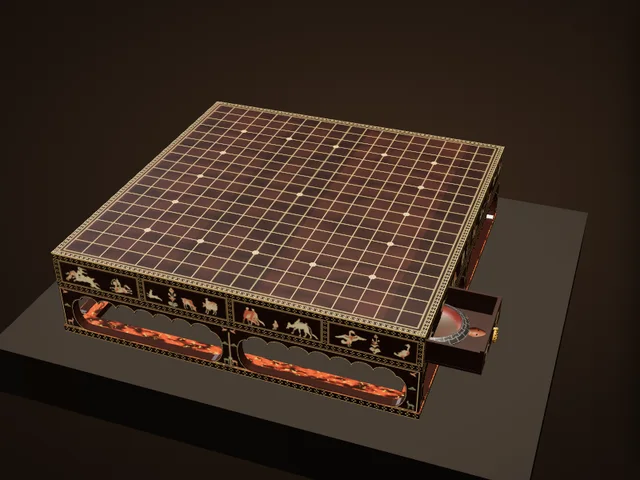
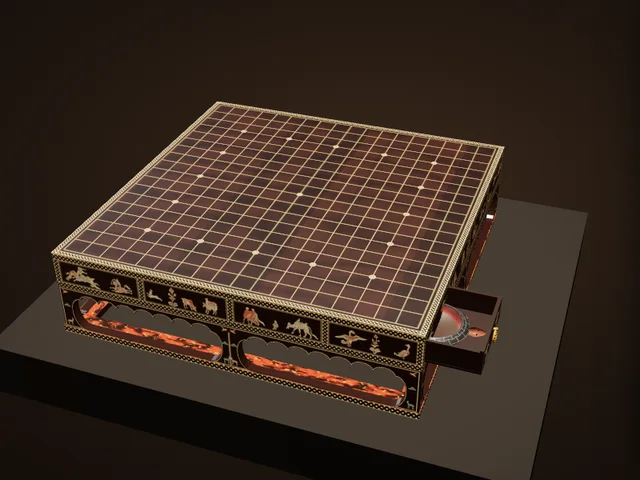
博物館：碁盤の図柄に線彫りを追加、菱形の帯を密に
Claude-Session: https://claude.ai/code/session_01EiWRAZTxRF5M5nk5vdR2jJ

diff --git a/atlas/museum/ex/shosoin.js b/atlas/museum/ex/shosoin.js
@@ -13,7 +13,7 @@
   // 4 panels each, 512 × 150): alpha = the ivory figure, green / blue = where it is dyed green / red. Outlines and dye only.
   const HERE = (document.currentScript && document.currentScript.src) || location.href; let FIG = null;
   (window.AtlasEx = window.AtlasEx || {}).shosoin = {
-    ready: () => new Promise(res => { const im = new Image(); im.onload = () => { FIG = im; res(); }; im.onerror = () => res(); im.src = new URL('../../../images/atlas/ex/shosoin-figures.webp', HERE).href; setTimeout(res, 8000); }),
+    ready: () => new Promise(res => { const im = new Image(); im.onload = () => { FIG = im; res(); }; im.onerror = () => res(); im.src = new URL('../../../images/atlas/ex/shosoin-figures.webp?v=2', HERE).href; setTimeout(res, 8000); }),
     build(TT, X, K) {
       const G = new TT.Group();
       const S = 48.9, H = 12.7, RAIL = 1.0, BASE = 7.4,   // (measured on the Shōsōin's oblique photograph: body 5.3, openings 5.4, floor frame 1.0)
@@ -90,7 +90,7 @@
       const chain = (g, x0, y0, len, wd, vert) => { g.save(); g.translate(x0, y0); if (vert) g.rotate(Math.PI / 2);
         g.fillStyle = 'rgba(14,6,4,.35)'; g.fillRect(0, 0, len, wd); g.fillStyle = '#d8bb7c'; g.fillRect(0, 0, len, wd * .07); g.fillRect(0, wd * .93, len, wd * .07);
         // each motif is a lozenge of four small ivory squares (as on the photographed sides), a dark dot in the middle
-        const n = Math.max(1, Math.round(len / (wd * .95))), q = wd * .13;
+        const n = Math.max(1, Math.round(len / (wd * .66))), q = wd * .2;   /* (close-set: the white lozenges nearly touch — detail photographs) */
         for (let i = 0; i < n; i++) { const cx = (i + .5) * len / n, cy = wd / 2; g.save(); g.translate(cx, cy); g.rotate(Math.PI / 4); g.fillStyle = '#e4d2a2';
           [[-1, -1], [1, -1], [-1, 1], [1, 1]].forEach(([u, v]) => g.fillRect(u * q * 1.15 - q / 2, v * q * 1.15 - q / 2, q, q)); g.restore(); }
         g.restore(); };
@@ -128,7 +128,7 @@
       const PAL = [C.iv, C.red, C.grn, '#d8b878'];
       // the figures in ivory with their dyes, and a dark outline round each (the joint of the inlay)
       let figC = null; if (FIG) { figC = document.createElement('canvas'); figC.width = FIG.width; figC.height = FIG.height; const q = figC.getContext('2d'); q.drawImage(FIG, 0, 0); const im = q.getImageData(0, 0, figC.width, figC.height), d = im.data;
-        for (let i = 0; i < d.length; i += 4) { const gr = Math.min(1, d[i + 1] / 255 * 1.5), rd = Math.min(1, d[i + 2] / 255 * 1.4); let c = [222, 206, 168]; c = c.map((v, k) => v + ([96, 140, 108][k] - v) * gr); c = c.map((v, k) => v + ([206, 112, 78][k] - v) * rd); d[i] = c[0]; d[i + 1] = c[1]; d[i + 2] = c[2]; } q.putImageData(im, 0, 0); }
+        for (let i = 0; i < d.length; i += 4) { const gr = Math.min(1, d[i + 1] / 255 * 1.5), rd = Math.min(1, d[i + 2] / 255 * 1.4); let c = [222, 206, 168]; c = c.map((v, k) => v + ([96, 140, 108][k] - v) * gr); c = c.map((v, k) => v + ([206, 112, 78][k] - v) * rd); { const ln = d[i] / 255 * .85; c = c.map((v, k) => v + ([84, 46, 28][k] - v) * ln); }   /* the engraved lines, filled dark */ d[i] = c[0]; d[i + 1] = c[1]; d[i + 2] = c[2]; } q.putImageData(im, 0, 0); }
       const panelFig = (g, row, col, x, y, w2, h2) => { g.save(); g.shadowColor = 'rgba(14,6,3,.9)'; g.shadowBlur = 2.5; g.drawImage(figC, col * 512, row * 150, 512, 150, x, y, w2, h2); g.restore(); };
       const sideTex = (seed, drawerAt) => K.tex(2048, Math.round(2048 * (BODY - TOP) / S), (g, w, h) => {
         g.drawImage(shT.image, 0, 0, w, h); const s = w / S, cb = s * .85;

diff --git a/atlas/museum.js b/atlas/museum.js
@@ -32,7 +32,7 @@
   const ROOMS = [
     { id: 'map', ready: () => !!window.AtlasMap, render: (el, c) => AtlasMap.render(el, c) },
     { id: 'tree', src: ['museum/tree.js?v=3'], ready: () => !!window.AtlasTree, render: (el, c) => AtlasTree.render(el, c) },
-    { id: 'gallery', src: ['museum/gallery.js?v=66'], ready: () => !!window.AtlasGallery, render: (el, c) => AtlasGallery.render(el, c) },
+    { id: 'gallery', src: ['museum/gallery.js?v=67'], ready: () => !!window.AtlasGallery, render: (el, c) => AtlasGallery.render(el, c) },
   ];
   const KEY = 'atlas-museum-room';
   const esc = s => String(s == null ? '' : s).replace(/[&<>"]/g, c => ({ '&': '&amp;', '<': '&lt;', '>': '&gt;', '"': '&quot;' }[c]));

diff --git a/atlas/index.html b/atlas/index.html
@@ -2559,7 +2559,7 @@ window.AtlasRgdTimer = function (btn, ms, alive) {
 <link rel="stylesheet" href="worldmap.css?v=19">
 <link rel="stylesheet" href="museum.css?v=4">
 <script src="worldmap.js?v=40"></script>
-<script src="museum.js?v=67"></script>
+<script src="museum.js?v=68"></script>
 <script src="npc/npc.js?v=46"></script>
 <script src="avtalk.js?v=4"></script>
 <script>/* Page states as classes on <html> (2026-11-21) — html.cov-on: the 3D view / Historia / a sheet / a level sheet is open;

diff --git a/atlas/museum/gallery.js b/atlas/museum/gallery.js
@@ -10,7 +10,7 @@
    (a turn, a zoom, the slow turntable) and never while the window is in the background. */
 (function () {
   'use strict';
-  const V = 66;
+  const V = 67;
   /* ---------- the pieces: id, the game it belongs to, its scale (cm per model unit), the camera's start, the details ----------
      lock: { game, ach } → open after that many achievements of the game. src: the files the piece needs (besides ex/<id>.js) */
   const EX = [
